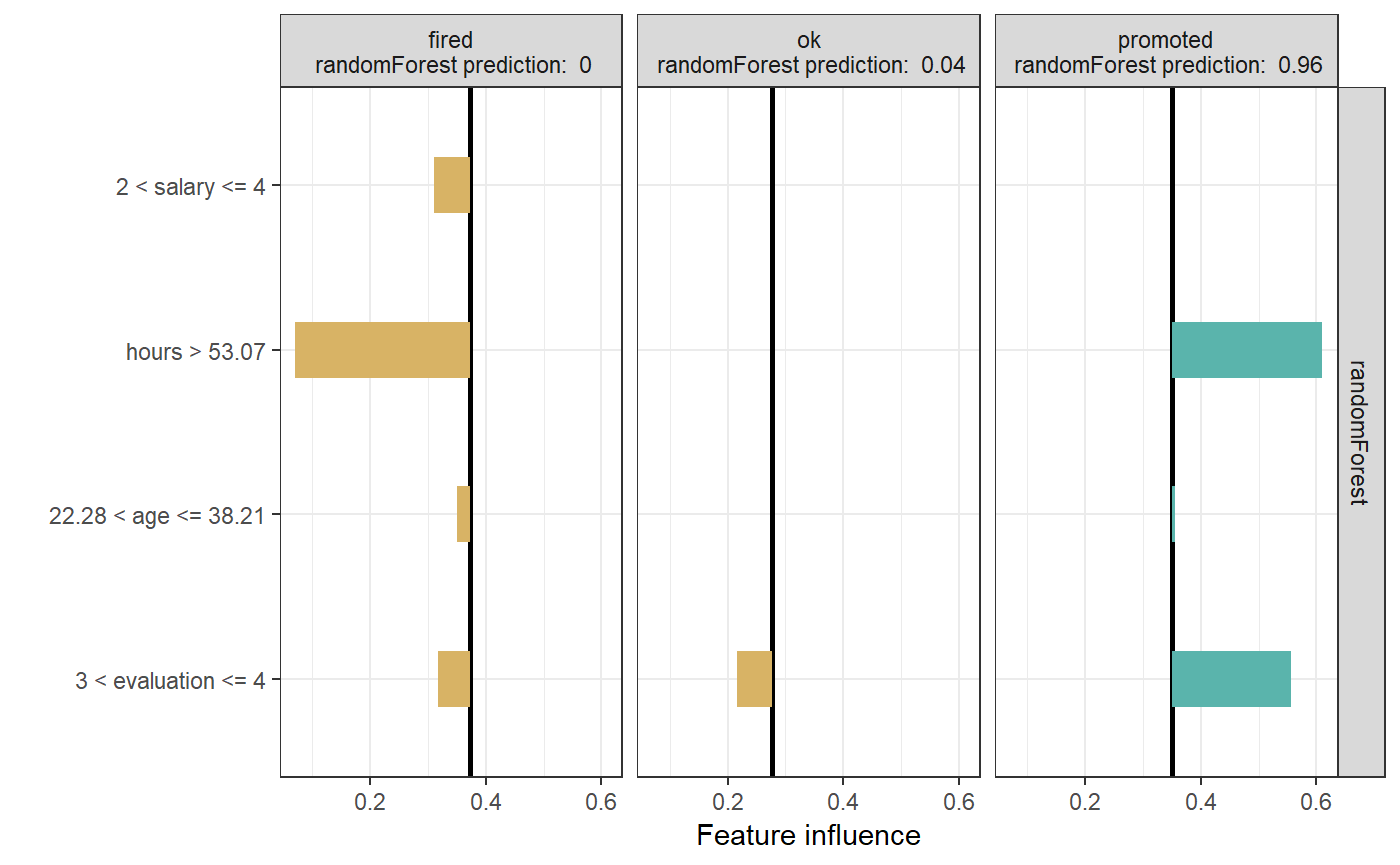
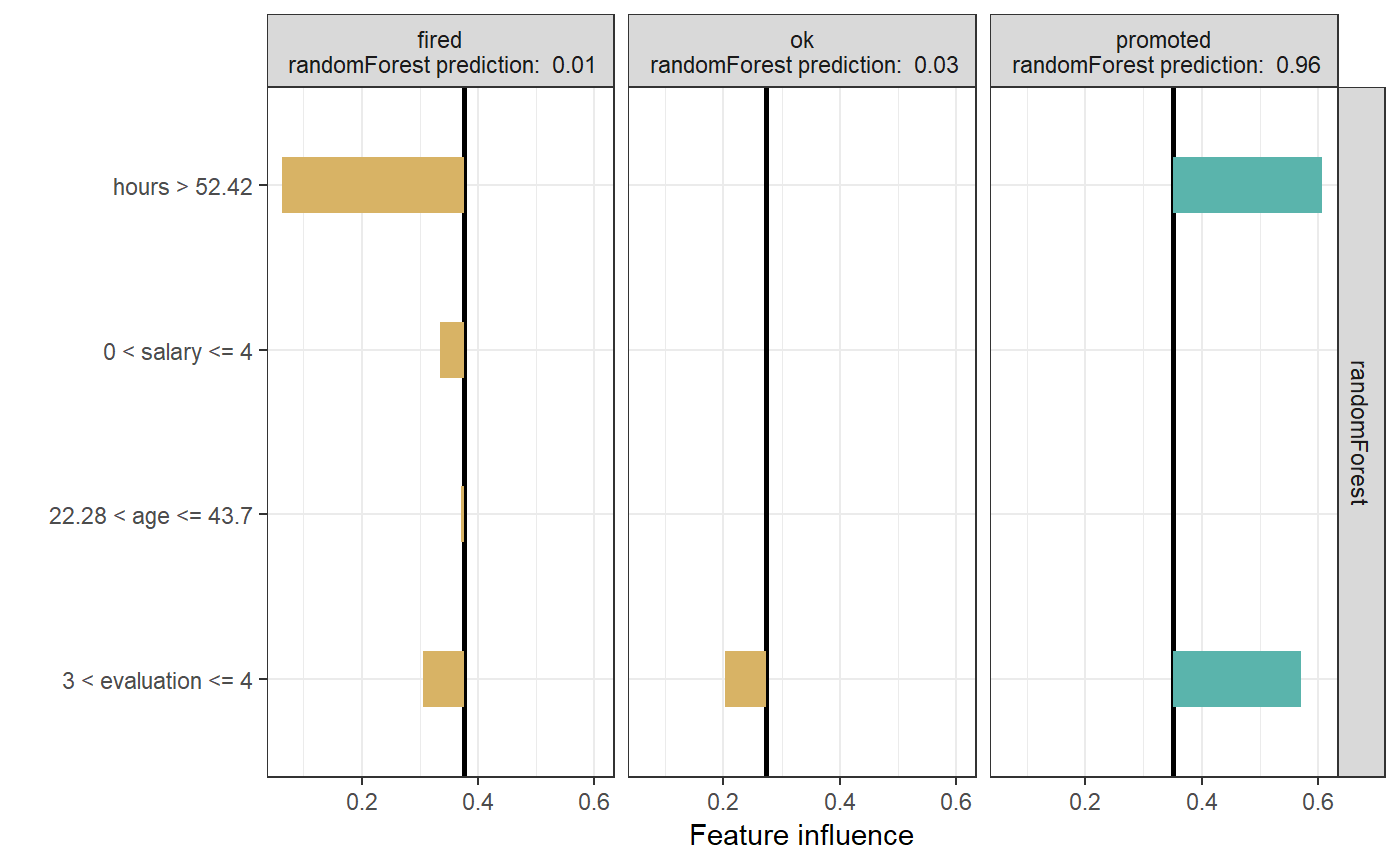
updates pkgdown

diff --git a/docs/articles/regression_example.html b/docs/articles/regression_example.html
@@ -108,9 +108,9 @@ new_observation
 <span class="co">#&gt; 1005              1978     102     4        4   Bemowo</span></code></pre></div>
 <p>Local explanation is created via <code>individual_surrogate_model</code> function, which takes the explainer, observation of interest and number of new observations to simulate as argument. Optionally, we can set seed using the <code>seed</code> parameter for reproducibility.</p>
 <div class="sourceCode"><pre class="sourceCode r"><code class="sourceCode r">model_lok &lt;-<span class="st"> </span><span class="kw"><a href="../reference/individual_surrogate_model.html">individual_surrogate_model</a></span>(explainer, new_observation,
-                                        <span class="dt">size =</span> <span class="dv">500</span>, <span class="dt">seed =</span> <span class="ot">NULL</span>)
+                                        <span class="dt">size =</span> <span class="dv">500</span>, <span class="dt">seed =</span> <span class="dv">17</span>)
 model_lok2 &lt;-<span class="st"> </span><span class="kw"><a href="../reference/individual_surrogate_model.html">individual_surrogate_model</a></span>(explainer2, new_observation,
-                                         <span class="dt">size =</span> <span class="dv">500</span>, <span class="dt">seed =</span> <span class="ot">NULL</span>)</code></pre></div>
+                                         <span class="dt">size =</span> <span class="dv">500</span>, <span class="dt">seed =</span> <span class="dv">17</span>)</code></pre></div>
 <p>First, local interpretable features are created. Numerical features are discretized by using decision tree to model relationship between the feature and the corresponding Ceteris Paribus profile. Categorical features are also discretized by merging levels using the marginal relationship between the feature and the model response. Then, new dataset is simulated by switching a random number of interpretable inputs in the explained instance. This procedure mimics “graying out” areas (superpixels) in the original LIME method. LASSO regression model is fitted to the model response for these new observations, which makes the final explanations sparse and thus readable.</p>
 <p>The explanation can be plotted using generic <code>plot</code> function. The plot shows interpretable features and weights associated with them, starting at the model intercept. Negative weights are associated with features that decrease the apartment price, while positive weights increase it.</p>
 <div class="sourceCode"><pre class="sourceCode r"><code class="sourceCode r"><span class="kw">plot</span>(model_lok, model_lok2)</code></pre></div>
